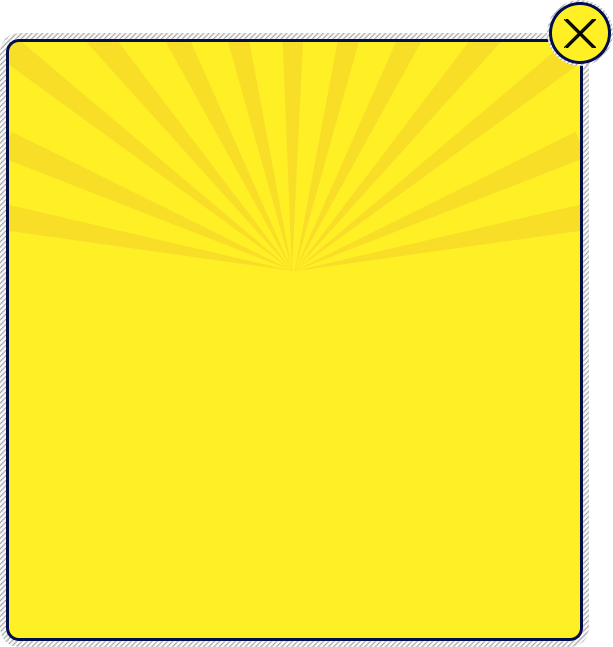
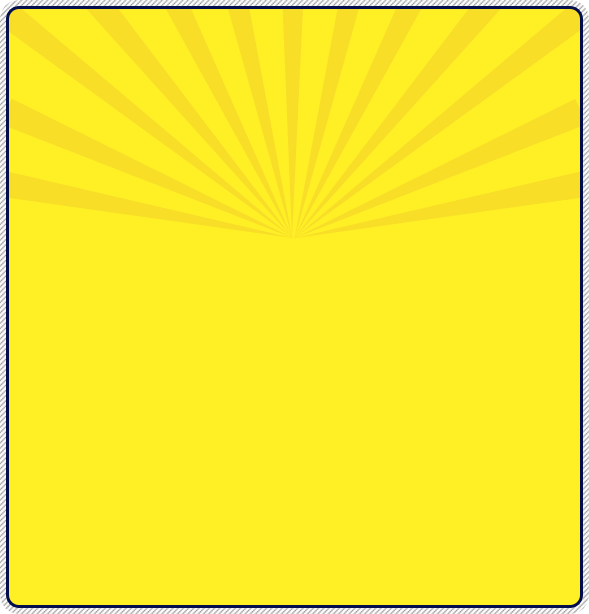
fix(register): 注册弹窗样式修改

Changed region(s): [[0.0, 0.0, 1.0, 1.0]]

diff --git a/app/views/games/game-counting.html b/app/views/games/game-counting.html
@@ -28,6 +28,7 @@
         background-size: 100% 100%;
       }
     </style>
+    <script src="/styles/un-min/jweixin-1.0.0.js"></script>
     <script src="/styles/un-min/rem.js"></script>
     <style>
       .game-counting {
@@ -73,8 +74,8 @@
       .registerBox {
         background: url('/images/games/register-box.png') no-repeat 0 0;
         background-size: contain;
-        margin: 1.5rem .2rem 0.5rem .5rem;
-        padding: .7rem .5rem .2rem .25rem;
+        margin: 1.5rem .5rem 0.5rem;
+        padding: .7rem .25rem .2rem;
         position: relative;
         height: 6rem;
         overflow: hidden;
@@ -92,14 +93,6 @@
         z-index: 9999;
         text-align: center;
         padding-right: .1rem;
-      }
-      .showRegister {
-        width: .7rem;
-        height: .7rem;
-        /*background: red;*/
-        position: absolute;
-        top: 1.5rem;
-        right: .2rem;
       }
       .register-btns {
         margin: .2rem .55rem;
@@ -123,7 +116,7 @@
         background-size: contain;
         width: 100%;
         height: .5rem;
-        margin: .15rem auto .5rem;
+        margin: .15rem auto .15rem;
       }
       .totalMoney {
         font-size: .32rem;
@@ -312,7 +305,6 @@
           </div>
         </form>
       </div>
-      <div class="showRegister"></div>
       <div class="register-btns">
         <div class="startAgin rule-btn" id="startAgin">再玩一次</div>
         <div class="getPrize rule-btn" id="getPrize">立即领取</div>
@@ -900,7 +892,6 @@
         },
         startGameConfig: function () {
           this.toggleRuleBox($showRule, $ruleBox);
-          this.toggleRuleBox($('.showRegister'), $('#registerBox'));
           this.getGameRules();
           this.getCountList();
           $RuleStartGame.on('click', this.RuleStartGame)
@@ -1016,7 +1007,6 @@
               console.log(res)
               if (res.code || res.ret === -1) {
                 if (res.code === -1005) {
-                  _this.showRegister = false
                   _this.showToast('该活动只针对新用户哦，您已经注册过了，前往登录app参与其他活动吧！', 1)
                 } else {
                   _this.showToast(res.msg)
